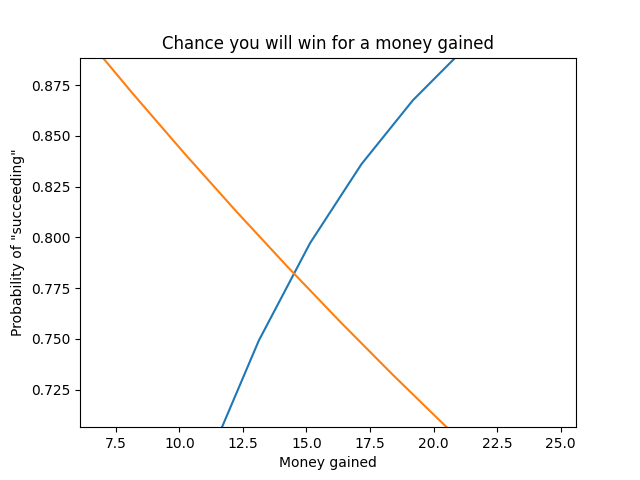
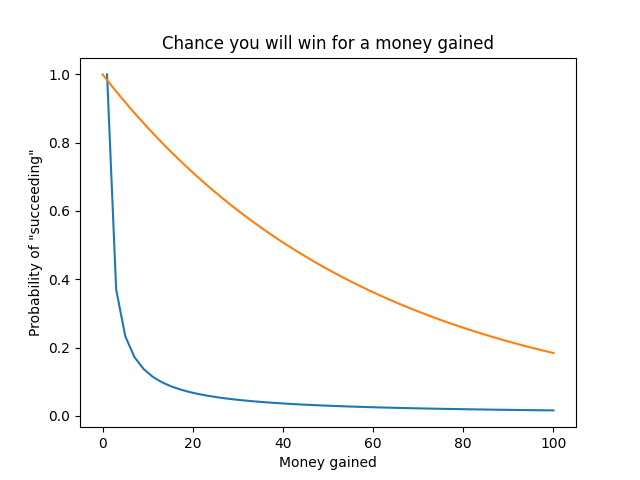
Redo graph with better risk curve

diff --git a/martingale2.html b/martingale2.html
@@ -1,1 +1,1 @@
-<ul> <li>Alright I am tired of reading this one page, I just created a part 2 so I'm not exhausted reading one page.</li><li>Here I am going to start figuring out the formula for the first part</li><li>First part: Calculate probability of losing the martingale</li><li>To create asymettry, I am going to say that the chance I win is 40%. The chance I lose is 60%.</li><li>If I bet for one dollar, I will have a 40% chance of winning a dollar, thereby ending the bet. I call it Pw</li><li>If I have the same bet, and I win, 60% chance of losing, thereby making me double the bet next time, I call it Pl</li><li>Now, in this case I have three numbers: 40% and 1 dollar and 1 dollar. In this case, I am risking 1 dollar, to gain 1 dollar, I have a 40% chance to win.</li><li>This can be (Pw, Dr, Dg). Probability winning, dollars risked, and dollars gained.</li><li>If, however, I increase my risk to 2 dollars, I effectively increase my probability of winning.</li><li>THe probability of winning = 100% - the probability of losing </li><li>The probability of winning = 100% - (60%)^2</li><li>The probability of winning = 100% - 36%</li><li>Probability winning = 64%</li><li>Now my numbers are (64%, 2, 1)</li><li>If we do it again, we get (78%, 4, 1)</li><li>Let's make a formula. Let's call it Pw = 1 - (60%)^(log2(Dr)+1)</li><li>But where does the dollars gained go into this process? I have only assumed that the game "ends" when I gain one dollar. In order to win multiple dollars, I must repeat the process</li><li>Pw = (1 - (60%)^(log2(Dr)+1)^Dg</li><li>Going to make a python script with that equation </li><a href="martingale2.py">PythonScript </a><li>Let's plot this! But how do we choose to graph it? I don't currently know how to plot in 3D, so I will have the dollars_risked stay constant. Let's keep it at 128</li><img src="probability_winning.png"/><li>So now we have our graph. It looks like if we want an 80% chance of winning, we will win a little less than 20 dollars, which makes sense in terms of expected value. The percentage that you are certain is balanced out by how little you actually gain.</li><li>So this is the reality, but what is my expectation?? I know that I personally like to risk a little more if it can spell better amount, but when does it start decreasing??</li><li>In my mind I think of something like this:</li><img src="my_risk.png"/></ul>
+<ul> <li>Alright I am tired of reading this one page, I just created a part 2 so I'm not exhausted reading one page.</li><li>Here I am going to start figuring out the formula for the first part</li><li>First part: Calculate probability of losing the martingale</li><li>To create asymettry, I am going to say that the chance I win is 40%. The chance I lose is 60%.</li><li>If I bet for one dollar, I will have a 40% chance of winning a dollar, thereby ending the bet. I call it Pw</li><li>If I have the same bet, and I win, 60% chance of losing, thereby making me double the bet next time, I call it Pl</li><li>Now, in this case I have three numbers: 40% and 1 dollar and 1 dollar. In this case, I am risking 1 dollar, to gain 1 dollar, I have a 40% chance to win.</li><li>This can be (Pw, Dr, Dg). Probability winning, dollars risked, and dollars gained.</li><li>If, however, I increase my risk to 2 dollars, I effectively increase my probability of winning.</li><li>THe probability of winning = 100% - the probability of losing </li><li>The probability of winning = 100% - (60%)^2</li><li>The probability of winning = 100% - 36%</li><li>Probability winning = 64%</li><li>Now my numbers are (64%, 2, 1)</li><li>If we do it again, we get (78%, 4, 1)</li><li>Let's make a formula. Let's call it Pw = 1 - (60%)^(log2(Dr)+1)</li><li>But where does the dollars gained go into this process? I have only assumed that the game "ends" when I gain one dollar. In order to win multiple dollars, I must repeat the process</li><li>Pw = (1 - (60%)^(log2(Dr)+1)^Dg</li><li>Going to make a python script with that equation </li><a href="martingale2.py">PythonScript </a><li>Let's plot this! But how do we choose to graph it? I don't currently know how to plot in 3D, so I will have the dollars_risked stay constant. Let's keep it at 128</li><img src="probability_winning.png"/><li>So now we have our graph. It looks like if we want an 80% chance of winning, we will win a little less than 20 dollars, which makes sense in terms of expected value. The percentage that you are certain is balanced out by how little you actually gain.</li><li>So this is the reality, but what is my expectation?? I know that I personally like to risk a little more if it can spell better amount, but when does it start decreasing??</li><li>In my mind I think of something like this:</li><img src="my_risk.png"/><li>Looks good to me, I mean I feel good about this risk graph, so it's fine </li><li>Let's figure out where this overlaps</li><li>I created a graph, and...it looks like the optimal amount I can gain is 0 dollars..with a 100% probability.</li><img src="optimal_bet.png"/><li>Every other type of bet is too risky for me and the curve dips way lower than I want to. The only way to win this bet is to not bet at all..</li></ul>

diff --git a/martingale2.py b/martingale2.py
@@ -15,7 +15,7 @@ def chance_of_winning():
     plt.show()
 
 def regular_log(x):
-    return 1-(0.9)**x
+    return x**-0.9
 
 if __name__ == "__main__":
     x = np.linspace(1,100)
